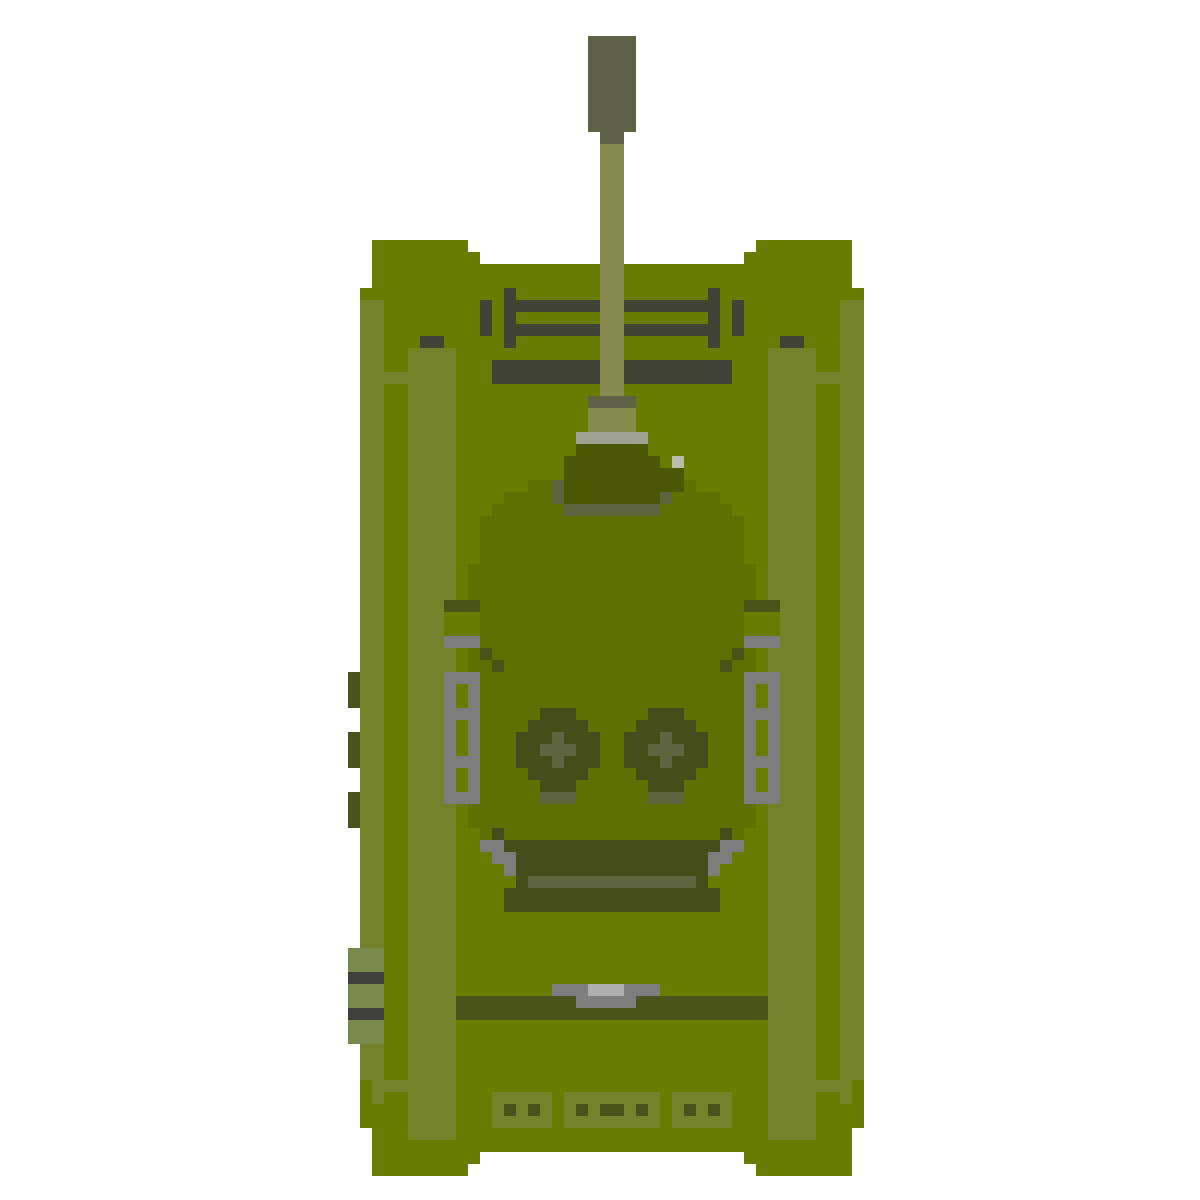
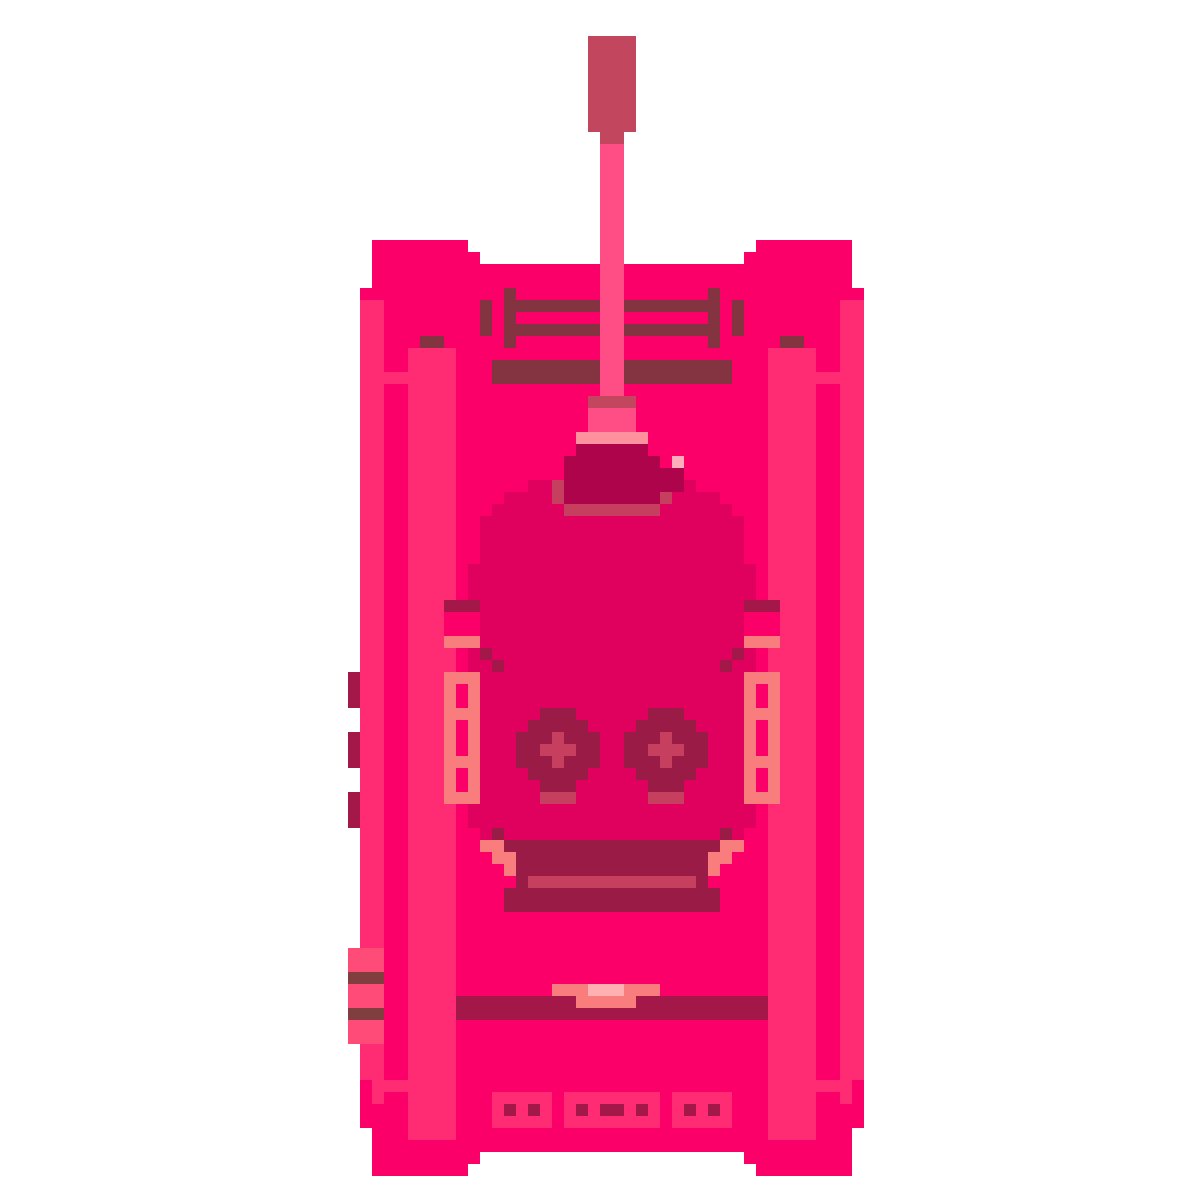
changed tank images and made winscreen show the green tank if you win but red if u lose

diff --git a/src/tankgame/game/GameFrame.java b/src/tankgame/game/GameFrame.java
@@ -205,16 +205,16 @@ public class GameFrame extends JFrame {
     }
 
     public void quitToMenu() {
-        //kill the game loops
-        scheduler.shutdownNow();
         //only one of th/ch exists so one of these throws, ignore it (same as createGameOver does)
         try {
             th.send("9:" + id);
             th.close();
         } catch (Exception e) {
+            ch.broadcast("7:host has left the game");
             ch.close();
-            ch.broadcast("8:host has left the game");
         }
+        //kill the game loops
+        scheduler.shutdownNow();
         remove(gc);
         mm = new MainMenu(this, w, h);
         add(mm);

diff --git a/src/tankgame/menu/GameOverMenu.java b/src/tankgame/menu/GameOverMenu.java
@@ -21,6 +21,7 @@ public class GameOverMenu extends JPanel {
 
     Image bg;
     Image tank;
+    Image selftank;
     private int w;
     private int h;
 
@@ -36,6 +37,7 @@ public class GameOverMenu extends JPanel {
         try {
             bg = ImageIO.read(new File("src" + File.separator + "images" + File.separator + "mainMenu.png")).getScaledInstance(w, h, Image.SCALE_DEFAULT);
             tank = ImageIO.read(new File("src" + File.separator + "images" + File.separator + "tank.png")).getScaledInstance(w / 7, 2*h / 5, Image.SCALE_DEFAULT);
+            selftank = ImageIO.read(new File("src" + File.separator + "images" + File.separator + "selftank.png")).getScaledInstance(w / 7, 2*h / 5, Image.SCALE_DEFAULT);
         } catch (IOException e) {
             System.out.println("error loading file");
         } catch (NullPointerException e) {
@@ -44,6 +46,9 @@ public class GameOverMenu extends JPanel {
         }
 
         //buttons n labels
+        if(winnerName.equals(gf.getUsername())){
+            tank = selftank;
+        }
         JLabel nameLabel = new JLabel(winnerName+" has won the game!");
         nameLabel.setForeground(Color.BLACK);
         nameLabel.setBounds(w / 2 - w / 6, h / 3, w, h / 5);